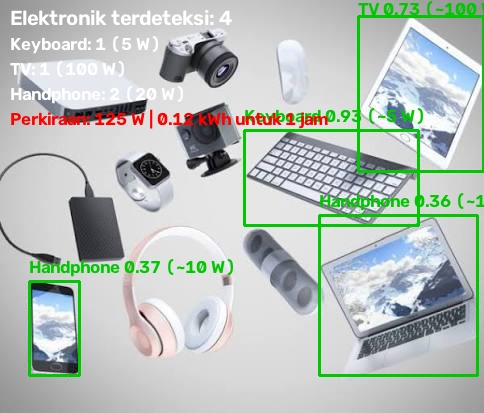
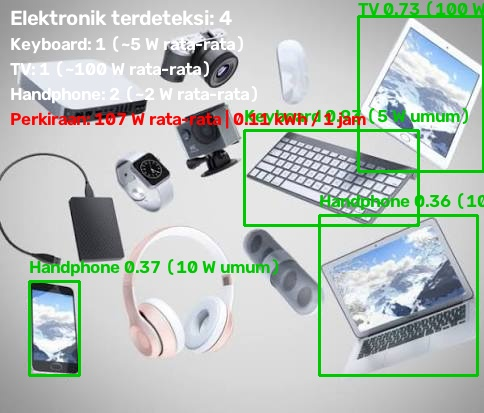
Kode Menyesuaikan Gambar Dan Lebih Akurat

diff --git a/deteksi.py b/deteksi.py
@@ -1,6 +1,8 @@
 import argparse
 from collections import Counter
+from datetime import datetime
 from pathlib import Path
+import time
 
 import cv2
 from ultralytics import YOLO
@@ -19,23 +21,50 @@ ELEKTRONIK = {
     "hair drier": "Pengering Rambut",
 }
 
-WATT_PERKIRAAN = {
-    "TV": 100,
-    "Laptop": 65,
-    "Handphone": 10,
-    "Mouse": 2,
-    "Keyboard": 5,
-    "Remote": 1,
-    "Kulkas": 150,
-    "Microwave": 1200,
-    "Oven": 2000,
-    "Toaster": 1000,
-    "Pengering Rambut": 1500,
+WATT_PERANGKAT = {
+    # minimum, daya penggunaan umum, maksimum/nominal
+    "TV": (40, 100, 300),
+    "Laptop": (30, 65, 150),
+    "Handphone": (5, 10, 25),
+    "Mouse": (1, 2, 5),
+    "Keyboard": (3, 5, 10),
+    "Remote": (0.5, 1, 2),
+    "Kulkas": (80, 150, 300),
+    "Microwave": (700, 1200, 1500),
+    "Oven": (1200, 2000, 3500),
+    "Toaster": (700, 1000, 1500),
+    "Pengering Rambut": (800, 1500, 2400),
+}
+
+# Faktor pemakaian rata-rata terhadap daya nominal/pasangan penggunaan.
+FAKTOR_PEMAKAIAN = {
+    "TV": 1.0,
+    "Laptop": 1.0,
+    "Handphone": 0.1,
+    "Mouse": 1.0,
+    "Keyboard": 1.0,
+    "Remote": 1.0,
+    "Kulkas": 0.35,
+    "Microwave": 0.20,
+    "Oven": 0.50,
+    "Toaster": 0.25,
+    "Pengering Rambut": 0.80,
 }
 
 HIJAU = (0, 200, 0)
 PUTIH = (255, 255, 255)
 MERAH = (0, 0, 255)
+
+def hitung_iou(box_a, box_b):
+    x1 = max(box_a[0], box_b[0])
+    y1 = max(box_a[1], box_b[1])
+    x2 = min(box_a[2], box_b[2])
+    y2 = min(box_a[3], box_b[3])
+    luas_irisan = max(0, x2 - x1) * max(0, y2 - y1)
+    luas_a = max(1, box_a[2] - box_a[0]) * max(1, box_a[3] - box_a[1])
+    luas_b = max(1, box_b[2] - box_b[0]) * max(1, box_b[3] - box_b[1])
+    return luas_irisan / (luas_a + luas_b - luas_irisan)
+
 
 def deteksi_elektronik(model, frame, confidence):
     hasil = model(frame, conf=confidence, verbose=False)
@@ -53,12 +82,92 @@ def deteksi_elektronik(model, frame, confidence):
             "box": kotak.xyxy[0].int().tolist(),
         })
 
+    # Beberapa kotak YOLO dari objek yang sama dapat menghasilkan duplikat.
+    # Simpan kotak terbaik dari setiap objek yang sangat bertumpang tindih.
+    deteksi = sorted(deteksi, key=lambda item: item["confidence"], reverse=True)
+    deteksi_unik = []
+    for item in deteksi:
+        duplikat = any(
+            item["nama"] == item_lain["nama"]
+            and hitung_iou(item["box"], item_lain["box"]) >= 0.45
+            for item_lain in deteksi_unik
+        )
+        if not duplikat:
+            deteksi_unik.append(item)
+
+    deteksi = deteksi_unik
     return deteksi
 
 def hitung_daya(deteksi, jam):
     jumlah_per_nama = Counter(item["nama"] for item in deteksi)
-    total_watt = sum(WATT_PERKIRAAN[nama] * jumlah for nama, jumlah in jumlah_per_nama.items())
+    total_watt = sum(
+        WATT_PERANGKAT[nama][1] * FAKTOR_PEMAKAIAN[nama] * jumlah
+        for nama, jumlah in jumlah_per_nama.items()
+    )
     return jumlah_per_nama, total_watt, total_watt * jam / 1000
+
+def ringkasan_kamera(jumlah_maksimum, durasi_detik):
+    durasi_jam = durasi_detik / 3600
+    baris = []
+    total_minimum = 0
+    total_umum = 0
+    total_maksimum = 0
+    total_rata_rata = 0
+
+    if not jumlah_maksimum:
+        return (
+            "Tidak ada perangkat elektronik yang dikenali selama kamera aktif.",
+            {
+                "durasi_detik": durasi_detik,
+                "durasi_jam": durasi_jam,
+                "total_minimum_watt": 0,
+                "total_umum_watt": 0,
+                "total_maksimum_watt": 0,
+                "total_rata_rata_watt": 0,
+                "kwh_rata_rata": 0,
+            },
+        )
+
+    for nama, jumlah in sorted(jumlah_maksimum.items()):
+        nilai_min, nilai_umum, nilai_max = WATT_PERANGKAT[nama]
+        rata_rata = nilai_umum * FAKTOR_PEMAKAIAN[nama]
+        minimum = nilai_min * jumlah
+        umum = nilai_umum * jumlah
+        maksimum = nilai_max * jumlah
+        rata_satuan = rata_rata * jumlah
+        total_minimum += minimum
+        total_umum += umum
+        total_maksimum += maksimum
+        total_rata_rata += rata_satuan
+        baris.append(
+            f"- {nama}: {jumlah} perangkat, "
+            f"rentang {minimum:.0f}-{maksimum:.0f} W, "
+            f"rata-rata penggunaan ~{rata_satuan:.0f} W "
+            f"(nilai umum {umum:.0f} W)"
+        )
+
+    kwh_rata_rata = total_rata_rata * durasi_jam / 1000
+    ringkasan = "\n".join([
+        "PERANGKAT TERDETEKSI SELAMA KAMERA HIDUP",
+        *baris,
+        "",
+        f"Durasi kamera aktif: {durasi_detik:.1f} detik ({durasi_jam:.4f} jam)",
+        f"Total minimum perkiraan: {total_minimum:.0f} W",
+        f"Total nilai umum perkiraan: {total_umum:.0f} W",
+        f"Total maksimum perkiraan: {total_maksimum:.0f} W",
+        f"TOTAL WATT RATA-RATA PERKIRAAN: {total_rata_rata:.0f} W",
+        f"Estimasi konsumsi selama sesi: {kwh_rata_rata:.4f} kWh",
+    ])
+    data = {
+        "durasi_detik": durasi_detik,
+        "durasi_jam": durasi_jam,
+        "total_minimum_watt": total_minimum,
+        "total_umum_watt": total_umum,
+        "total_maksimum_watt": total_maksimum,
+        "total_rata_rata_watt": total_rata_rata,
+        "kwh_rata_rata": kwh_rata_rata,
+    }
+    return ringkasan, data
 
 def gambarkan_hasil(frame, deteksi, jam):
     jumlah_per_nama, total_watt, total_kwh = hitung_daya(deteksi, jam)
@@ -66,11 +175,11 @@ def gambarkan_hasil(frame, deteksi, jam):
     for item in deteksi:
         x1, y1, x2, y2 = item["box"]
         nama = item["nama"]
-        watt = WATT_PERKIRAAN[nama]
+        nilai_min, watt, nilai_max = WATT_PERANGKAT[nama]
         cv2.rectangle(frame, (x1, y1), (x2, y2), HIJAU, 2)
         cv2.putText(
             frame,
-            f"{nama} {item['confidence']:.2f} (~{watt} W)",
+            f"{nama} {item['confidence']:.2f} ({watt:.0f} W umum)",
             (x1, max(y1 - 8, 15)),
             cv2.FONT_HERSHEY_SIMPLEX,
             0.6,
@@ -90,10 +199,12 @@ def gambarkan_hasil(frame, deteksi, jam):
 
     posisi_y = 50
     for nama, jumlah in jumlah_per_nama.items():
-        watt = WATT_PERKIRAAN[nama] * jumlah
+        watt_rata_rata = (
+            WATT_PERANGKAT[nama][1] * FAKTOR_PEMAKAIAN[nama] * jumlah
+        )
         cv2.putText(
             frame,
-            f"{nama}: {jumlah} ({watt} W)",
+            f"{nama}: {jumlah} (~{watt_rata_rata:.0f} W rata-rata)",
             (10, posisi_y),
             cv2.FONT_HERSHEY_SIMPLEX,
             0.6,
@@ -104,7 +215,7 @@ def gambarkan_hasil(frame, deteksi, jam):
 
     cv2.putText(
         frame,
-        f"Perkiraan: {total_watt} W | {total_kwh:.2f} kWh untuk {jam:g} jam",
+        f"Perkiraan: {total_watt:.0f} W rata-rata | {total_kwh:.2f} kWh / {jam:g} jam",
         (10, posisi_y),
         cv2.FONT_HERSHEY_SIMPLEX,
         0.6,
@@ -191,8 +302,17 @@ def main():
             if not jumlah:
                 print("  Tidak ada perangkat elektronik yang dikenali.")
             for nama, count in jumlah.items():
-                print(f"  {nama}: {count} (~{WATT_PERKIRAAN[nama] * count} W)")
-            print(f"  Total perkiraan: {watt} W / {kwh:.2f} kWh untuk {args.hours:g} jam")
+                nilai_min, nilai_umum, nilai_max = WATT_PERANGKAT[nama]
+                rata_rata = nilai_umum * FAKTOR_PEMAKAIAN[nama] * count
+                print(
+                    f"  {nama}: {count} "
+                    f"(rentang {nilai_min * count:.0f}-{nilai_max * count:.0f} W; "
+                    f"rata-rata pemakaian ~{rata_rata:.0f} W)"
+                )
+            print(
+                f"  Total perkiraan: {watt:.0f} W rata-rata / "
+                f"{kwh:.2f} kWh untuk {args.hours:g} jam"
+            )
             print(f"  Hasil tersimpan: {output_path}")
         return
 
@@ -205,6 +325,14 @@ def main():
         )
         return
 
+    jumlah_maksimum = Counter()
+    waktu_mulai = time.monotonic()
+    frame_terakhir = None
+    output_dir = Path(args.output)
+    if not output_dir.is_absolute():
+        output_dir = base_dir / output_dir
+    output_dir.mkdir(parents=True, exist_ok=True)
+
     try:
         while True:
             berhasil, frame = kamera.read()
@@ -213,14 +341,41 @@ def main():
                 break
 
             deteksi = deteksi_elektronik(model, frame, args.confidence)
+            frame_terakhir = frame.copy()
+            jumlah_frame, _, _ = hitung_daya(deteksi, 1)
+            for nama, jumlah in jumlah_frame.items():
+                jumlah_maksimum[nama] = max(jumlah_maksimum[nama], jumlah)
             gambarkan_hasil(frame, deteksi, args.hours)
 
             cv2.imshow("Deteksi Elektronik", frame)
             if cv2.waitKey(1) & 0xFF == ord("q"):
                 break
     finally:
+        durasi_detik = time.monotonic() - waktu_mulai
+        ringkasan, data = ringkasan_kamera(jumlah_maksimum, durasi_detik)
+        waktu_selesai = datetime.now().strftime("%Y%m%d_%H%M%S")
+        file_ringkasan = output_dir / f"ringkasan_kamera_{waktu_selesai}.txt"
+        file_ringkasan.write_text(
+            "KESIMPULAN DETEKSI DAN PERKIRAAN DAYA\n"
+            f"Dicatat: {datetime.now().strftime('%Y-%m-%d %H:%M:%S')}\n"
+            "========================================\n\n"
+            f"{ringkasan}\n\n"
+            "Catatan: Watt dan kWh merupakan perkiraan rata-rata karena model "
+            "tidak mengetahui spesifikasi daya asli perangkat.\n",
+            encoding="utf-8",
+        )
+        if frame_terakhir is not None:
+            cv2.imwrite(
+                str(output_dir / f"frame_terakhir_{waktu_selesai}.jpg"),
+                frame_terakhir,
+            )
+
         kamera.release()
         cv2.destroyAllWindows()
+        print("\n========================================")
+        print(ringkasan)
+        print("========================================")
+        print(f"Hasil ringkasan tersimpan: {file_ringkasan}")
 
 if __name__ == "__main__":
     main()
